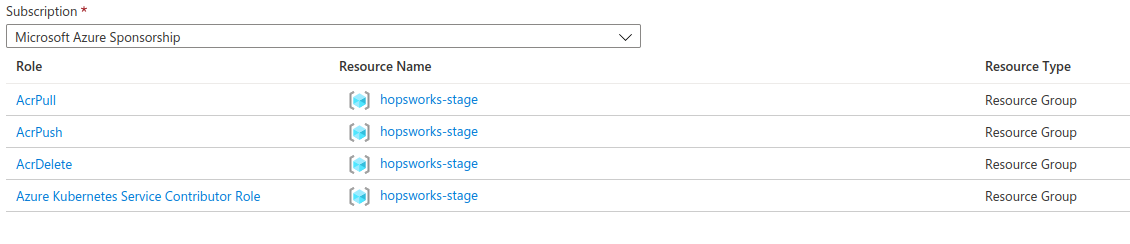
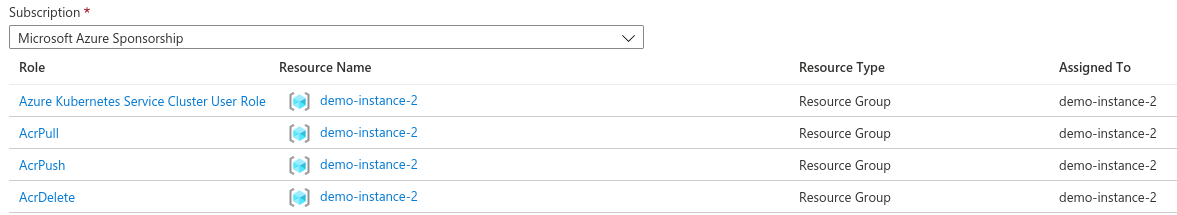
fix aks roles

diff --git a/docs/hopsworksai/azure/aks_acr_integration.md b/docs/hopsworksai/azure/aks_acr_integration.md
@@ -30,14 +30,15 @@ To set up the managed identity, go to the resource group where you will add the 
 Go to the managed identity created above. Click on *Azure role assignments* in the left column. Click on *Add role assignment*. For the *Scope* select *Resource group* or *Subscription* depending on your preference. Select the *Role* *AcrPull* and click on *Save*.
 
 Repeat the same operation with the following roles:
+
 * AcrPush
 * AcrDelete
-* Azure Kubernetes Service Contributor Role
+* Azure Kubernetes Service User Role
 
 !!! warning
     You will also need to attach storage access permissions to the managed identity, see [Creating and configuring a storage](getting_started.md#step-2-creating-and-configuring-a-storage)
 
-Once finished the role assignments should look similar to the picture below. Note that hopsworks-stage is used as the resource group throughout the example setup.
+Once finished the role assignments should look similar to the picture below. 
 
 <p align="center">
   <figure>
